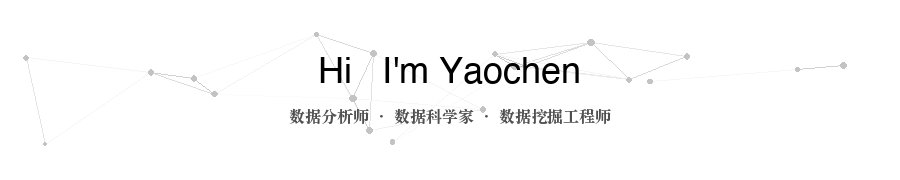
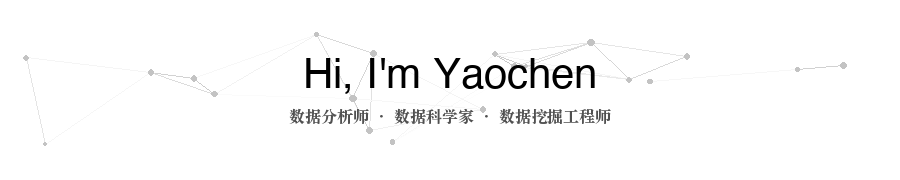
style: 头图标题加大字号

Changed region(s): [[0.3422, 0.3056, 0.6844, 0.5]]

diff --git a/generate_gif.py b/generate_gif.py
@@ -23,7 +23,7 @@ CLUSTERS = [
     (3,  750, 90, 120, 50, 170),   # 右侧小簇
 ]
 
-TITLE = "Hi   I'm Yaochen"
+TITLE = "Hi, I'm Yaochen"
 SUBTITLE = "数据分析师 · 数据科学家 · 数据挖掘工程师"
 
 
@@ -59,7 +59,7 @@ def generate_header():
         clusters.append((points, cd))
 
     try:
-        title_font = ImageFont.truetype("/System/Library/Fonts/Helvetica.ttc", 36)
+        title_font = ImageFont.truetype("/System/Library/Fonts/Helvetica.ttc", 42)
     except (OSError, IOError):
         title_font = ImageFont.load_default()
     try: